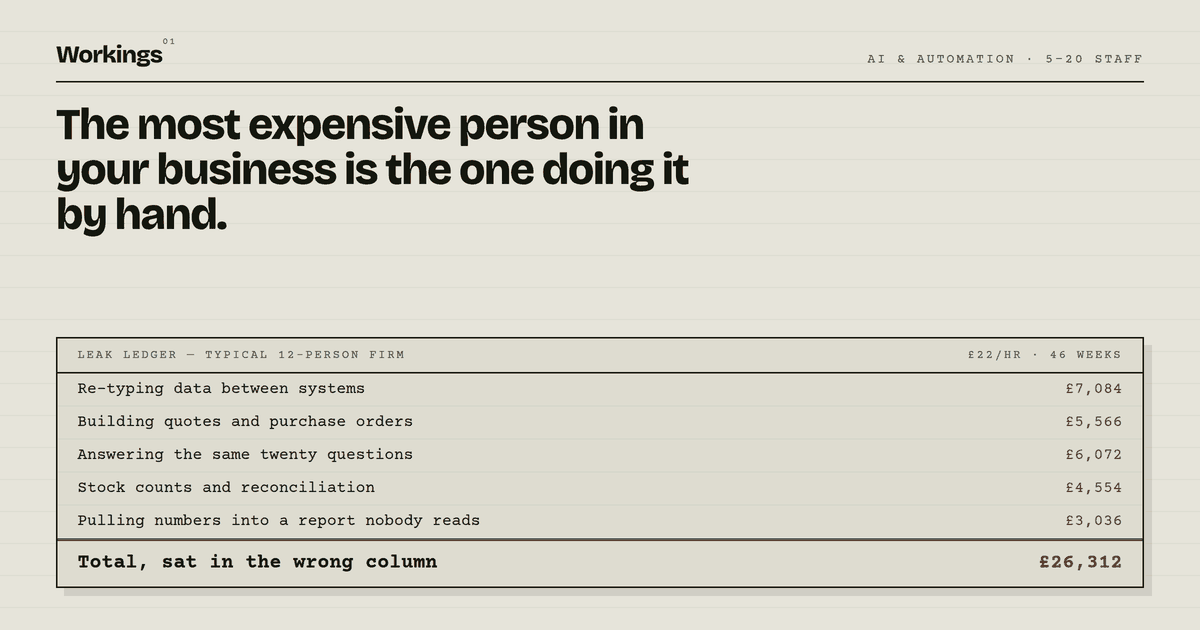
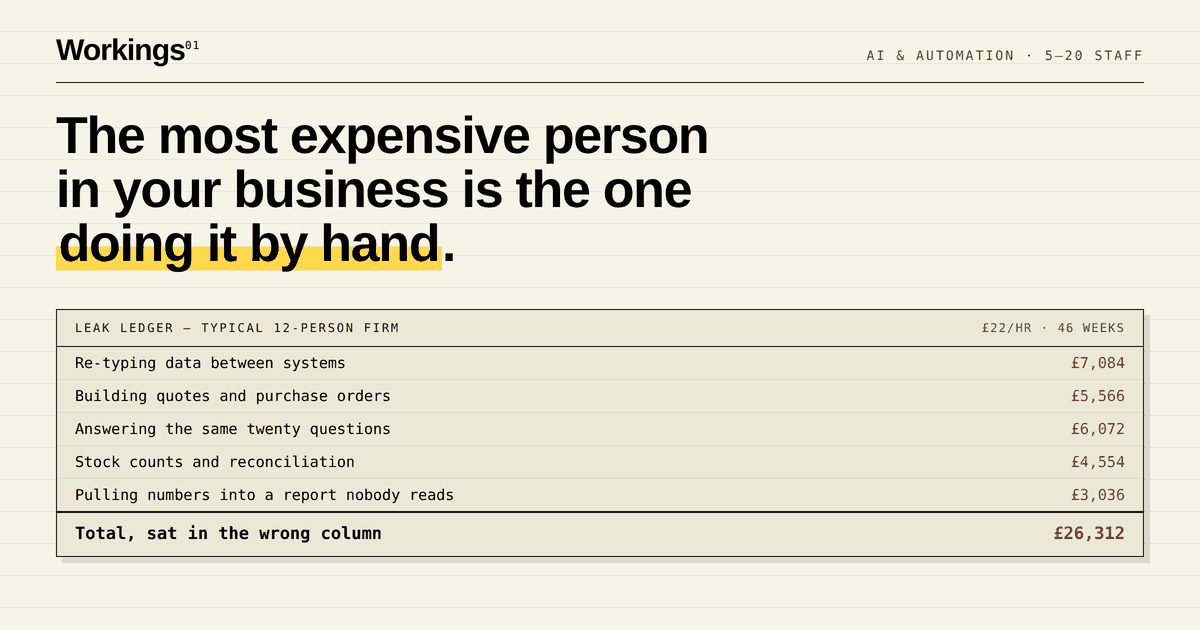
Brighten the palette, and keep the exhibit in the old one
The paper was a grey-green that read as drab rather than considered.
It is now a warm off-white - same paper metaphor, daylight instead of a
stockroom bulb - with the ink a shade deeper to hold contrast against it.

The spreadsheet exhibit in the hero deliberately keeps the old colours,
which is why they survive as a --drab-* set rather than being deleted.
The old way of working now literally looks older than the page around
it, and the exhibit reads as a grey slab against warm paper without
needing a caption to explain the point.

Adds one colour: --hi, a highlighter yellow, with a rule attached. It
means "this is the bit that matters" and it is only ever a background
with ink on top, never text. Three uses, spaced down the page - the
claim in the hero, the offer above the audit tool, and the recommended
tier - plus the offset shadow under a hovered button.

Regenerates og.png to match, since a share card in the old palette
would be the first thing anyone sees. Grain layer dropped from that
render only: invisible at thumbnail size, and it cost 240KB once
quantised.

axe-core still clean at WCAG 2.2 AA. Body text on the new pad is
7.6:1; the muted text inside the drab exhibit is 4.8:1, so it stays
readable even though it sits inside a role="img".

Claude-Session: https://claude.ai/code/session_01Cxk9qYGJe1k5Jp8gx2U78y

Changed region(s): [[0.0308, 0.5127, 0.9867, 0.9651], [0.0308, 0.0603, 0.9558, 0.4524]]

diff --git a/index.html b/index.html
@@ -61,16 +61,41 @@
 @font-face{font-family:'Courier Prime';font-style:normal;font-weight:400;font-display:swap;src:url('/fonts/courier-prime-400.woff2') format('woff2')}
 @font-face{font-family:'Courier Prime';font-style:normal;font-weight:700;font-display:swap;src:url('/fonts/courier-prime-700.woff2') format('woff2')}
 
+/* ---------------------------------------------------------------------------
+   COLOUR, AND WHAT EACH ONE IS ALLOWED TO MEAN
+
+   Four rules. Break them and the design stops arguing anything:
+
+     red     money leaking. Never decoration.
+     green   money recovered. Never decoration.
+     hi      the highlighter. "This is the bit that matters." Only ever a
+             background with ink on top — it is far too bright to be text.
+     drab    the old way of working. Reserved for the spreadsheet exhibit in
+             the hero and nothing else. It is deliberately the paper colour
+             this site used to be, so the exhibit reads as faded next to the
+             brighter page around it.
+
+   The pad is a warm off-white rather than a grey-green now. Same paper
+   metaphor, daylight instead of a stockroom bulb.
+   --------------------------------------------------------------------------- */
 :root{
-  --pad:#E6E4DA;
-  --pad-2:#DEDCD0;
-  --rule:#C0C4B6;
-  --rule-soft:#D2D5C9;
-  --ink:#14170F;
-  --ink-soft:#4E5347;
+  --pad:#F6F3E7;
+  --pad-2:#ECE8D8;
+  --rule:#C9C7B2;
+  --rule-soft:#DEDACA;
+  --ink:#12150D;
+  --ink-soft:#4A4F41;
   --red:#A32E22;
   --green:#1F5C3D;
-  --shadow:rgba(20,23,15,.10);
+  --hi:#FFD84D;
+  --hi-deep:#F0C420;
+  /* the old palette, kept alive for one element on purpose */
+  --drab:#E3E1D5;
+  --drab-2:#D9D7CA;
+  --drab-rule:#BEC2B4;
+  --drab-ink:#3F4438;
+  --drab-dim:#565B4E;
+  --shadow:rgba(18,21,13,.12);
   --mono:"Courier Prime",ui-monospace,"Cascadia Mono","Segoe UI Mono",Menlo,monospace;
   /* The fallbacks are deliberately grotesque-adjacent — if the webfont hasn't
      landed yet the page must not open in Times. */
@@ -145,15 +170,25 @@ img{max-width:100%;height:auto}
   cursor:pointer;transition:transform .12s ease, box-shadow .12s ease;
   line-height:1.3;text-align:center;
 }
-.btn:hover{transform:translate(-1px,-1px);box-shadow:3px 3px 0 var(--ink)}
+/* The offset shadow lands in highlighter on hover — the one moment where
+   "this is the bit that matters" is literally true. */
+.btn:hover{transform:translate(-1px,-1px);box-shadow:3px 3px 0 var(--hi-deep)}
 .btn-ghost{background:transparent;color:var(--ink)}
-.btn-ghost:hover{box-shadow:3px 3px 0 var(--rule)}
+.btn-ghost:hover{box-shadow:3px 3px 0 var(--hi-deep)}
 .btn[disabled]{opacity:.55;cursor:default;transform:none;box-shadow:none}
 :focus-visible{outline:2.5px solid var(--red);outline-offset:3px}
 
 /* ---------- hero ---------- */
 .hero{padding-top:74px;padding-bottom:56px}
 .hero h1{font-size:clamp(34px,6.1vw,70px);max-width:15ch}
+/* A marker swipe, not a filled box: the gradient stops short of the cap height
+   and of the baseline, so it reads as a pen dragged across the words.
+   box-decoration-break keeps it looking hand-drawn when the phrase wraps. */
+.hl{
+  background:linear-gradient(180deg,transparent 0 54%,var(--hi) 54% 96%,transparent 96%);
+  padding:0 .05em;
+  -webkit-box-decoration-break:clone;box-decoration-break:clone;
+}
 .hero .lede{font-size:clamp(17px,2vw,20px);max-width:56ch;margin-top:24px;color:var(--ink-soft)}
 .hero .lede strong{color:var(--ink);font-weight:600}
 .hero-cta{display:flex;gap:12px;flex-wrap:wrap;margin-top:30px;align-items:center}
@@ -201,20 +236,20 @@ table.led tr.tot td{
    where the money starts leaking. */
 .rt{margin:46px 0 0;max-width:720px}
 .rt-frame{
-  display:block;width:100%;height:auto;background:var(--pad-2);
-  border:1.5px solid var(--ink);box-shadow:6px 6px 0 var(--shadow);
+  display:block;width:100%;height:auto;background:var(--drab-2);
+  border:1.5px solid var(--drab-ink);box-shadow:6px 6px 0 var(--shadow);
 }
 /* The descendant selector below sets fill for every glyph, so the modifier
    classes have to be written as descendants too or they lose on specificity. */
-.rt-frame text{font-family:var(--mono);fill:var(--ink)}
+.rt-frame text{font-family:var(--mono);fill:var(--drab-ink)}
 .rt-frame .rt-lbl{font-size:11px;letter-spacing:.13em}
-.rt-frame .rt-hd{font-size:9.5px;letter-spacing:.14em;fill:var(--ink-soft)}
+.rt-frame .rt-hd{font-size:9.5px;letter-spacing:.14em;fill:var(--drab-dim)}
 .rt-frame .rt-cell{font-size:12.5px}
-.rt-frame .rt-dim{fill:var(--ink-soft)}
-.rt-rule{stroke:var(--rule-soft);stroke-width:1}
-.rt-hard{stroke:var(--ink);stroke-width:1.5}
-.rt-cover{fill:var(--pad-2)}
-.rt-cur{fill:none;stroke:var(--ink);stroke-width:2}
+.rt-frame .rt-dim{fill:var(--drab-dim)}
+.rt-rule{stroke:var(--drab-rule);stroke-width:1}
+.rt-hard{stroke:var(--drab-ink);stroke-width:1.5}
+.rt-cover{fill:var(--drab-2)}
+.rt-cur{fill:none;stroke:var(--drab-ink);stroke-width:2}
 .rt-cover{animation:rt-reveal 7.5s linear infinite}
 .rt-cur{animation:rt-cursor 7.5s linear infinite}
 .rt-roll{animation:rt-roll 7.5s linear infinite}
@@ -335,7 +370,7 @@ section{padding:74px 0;position:relative;z-index:1}
 .tier.pick .price,.tier.pick h3{color:var(--pad)}
 .tier.pick .lst li{border-color:#3A3E33;color:#CFCDC2}
 .tier .step{font-family:var(--mono);font-size:11px;letter-spacing:.14em;color:var(--ink-soft)}
-.tier.pick .step{color:#9C9E92}
+.tier.pick .step{color:var(--hi)}
 .tier h3{font-size:23px;margin:10px 0 6px}
 .tier .price{font-family:var(--mono);font-size:15px;font-weight:700;margin-bottom:14px}
 .lst{list-style:none;padding:0;margin:0 0 20px;flex:1}
@@ -441,7 +476,7 @@ footer nav a{display:inline-block;padding:4px 0}
 <!-- ============ HERO + LEAK LEDGER ============ -->
 <div class="wrap hero">
   <p class="eyebrow">AI &amp; automation · 5–20 staff · £1m–£3m turnover</p>
-  <h1>The most expensive person in your business is the one doing it by hand.</h1>
+  <h1>The most expensive person in your business is the one <span class="hl">doing it by hand</span>.</h1>
   <p class="lede">
     I run a retail and e-commerce business in South Wales. Over the last two years I handed the
     repetitive half of it to software — purchasing, stock, pricing, reporting, marketing.
@@ -650,7 +685,7 @@ footer nav a{display:inline-block;padding:4px 0}
 <section class="rule-top" id="audit">
   <div class="wrap">
     <p class="eyebrow">Free · no call · 3 minutes</p>
-    <h2 class="sec-h">Work out what your admin is actually costing you.</h2>
+    <h2 class="sec-h">Work out what your admin is <span class="hl">actually costing you</span>.</h2>
     <p class="sec-sub">Eight questions. Best estimates are fine — you know your business better than any benchmark does. You'll get a number and the three jobs worth fixing first.</p>
 
     <div class="tool">

diff --git a/README.md b/README.md
@@ -217,9 +217,13 @@ about twenty seconds. Things worth knowing:
   to the bottom of the notification email.
 - **The 55% figure** appears in three places: the on-screen workings, `terms.html`, and
   `normaliseAudit()` in the Worker. Change all three or the email won't match the page.
-- **Colours** are the CSS variables at the top. Red only ever means money leaking, green
-  only ever means money recovered. Don't use either as an accent — the whole design argument
-  falls over if they become decoration.
+- **Colours** are the CSS variables at the top, and each one is allowed to mean exactly one
+  thing. Red is money leaking. Green is money recovered. `--hi`, the highlighter yellow, is
+  "this is the bit that matters" — and only ever a background with ink on top, never text,
+  because it is far too bright to read. `--drab` is the old palette this site used to wear,
+  kept alive solely for the spreadsheet exhibit in the hero, so that the old way of working
+  literally looks older than the page around it. Don't use any of them as decoration; the
+  whole design argument falls over if they become pattern.
 - **Don't add** a cookie banner, a chat widget or a pop-up. There are no cookies, so there
   is nothing to consent to, and that is a feature worth protecting.
 
